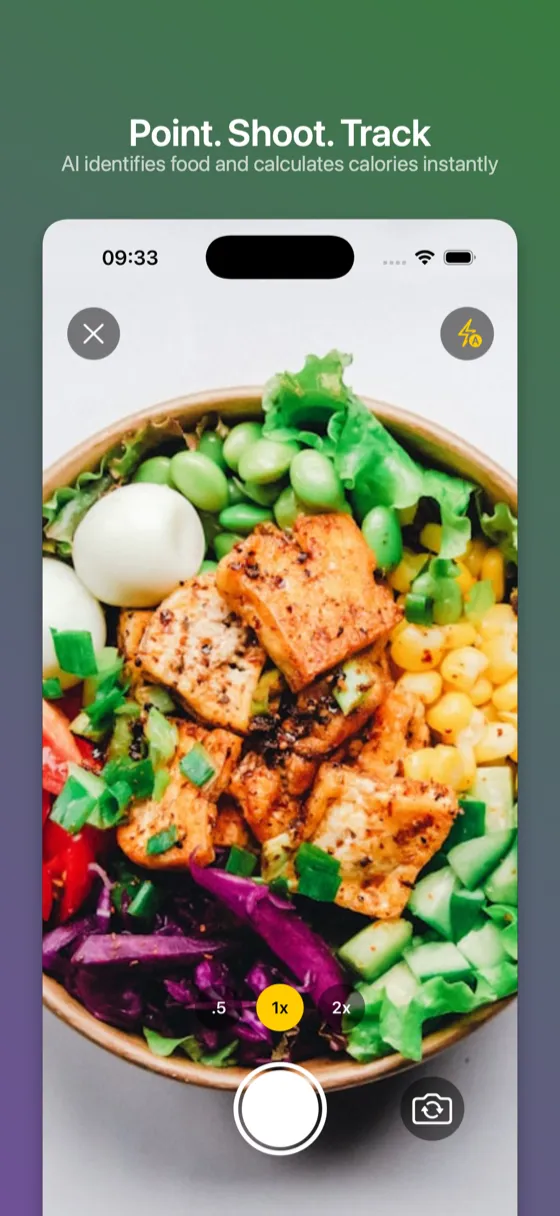
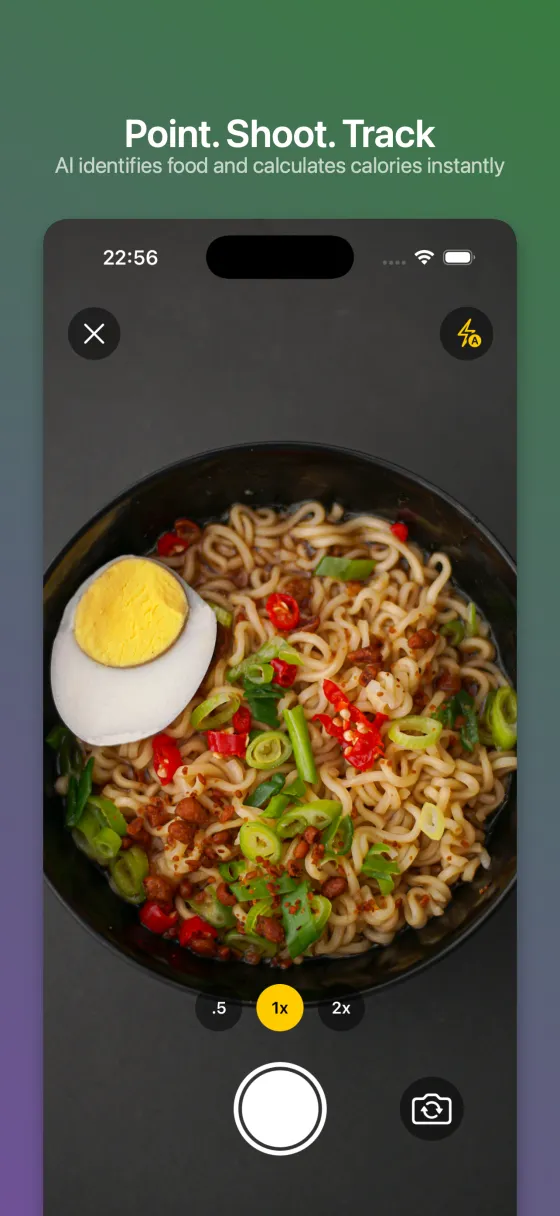
v1.2 metadata refresh: subscription disclosures, GDPR/CCPA, new scan screenshot

diff --git a/index.html b/index.html
@@ -4,8 +4,8 @@
 <head>
     <meta charset="UTF-8">
     <meta name="viewport" content="width=device-width, initial-scale=1.0">
-    <title>SnapNutrition AI - Best Free AI Calorie Tracker App 2026 | No Subscription</title>
-    <meta name="description" content="Best free AI calorie tracker 2026. Snap a photo to count calories instantly. No subscription, no ads. Track macros with photo, barcode, voice & text input.">
+    <title>SnapNutrition AI - Best Free AI Calorie Tracker App 2026 | Bring Your Own Key</title>
+    <meta name="description" content="Best free AI calorie tracker 2026. Snap a photo to count calories instantly. Free forever with your own API key (BYOK), or use optional Auto Mode subscription. No ads. Track macros with photo, barcode, voice & text input.">
     <meta name="keywords" content="free calorie tracker 2026, best calorie app 2026, AI calorie counter, food scanner app, photo calorie counter, macro tracker, best free calorie app, nutrition tracker, barcode food scanner, voice calorie tracking, calorie tracker app 2026, apple watch calorie tracker, calorie widget, lock screen calorie widget, calorie counter apple watch">
     <meta name="robots" content="index, follow">
     <link rel="stylesheet" href="styles.css?v=2" media="print" onload="this.media='all'">
@@ -37,7 +37,7 @@
 
     <!-- Open Graph -->
     <meta property="og:title" content="SnapNutrition AI - Best Free AI Calorie Tracker 2026">
-    <meta property="og:description" content="The best free AI calorie tracker in 2026. Snap a photo to count calories instantly. No subscription, no ads, no limits.">
+    <meta property="og:description" content="The best free AI calorie tracker in 2026. Snap a photo to count calories instantly. Free with your own API key, optional Auto Mode subscription, no ads.">
     <meta property="og:type" content="website">
     <meta property="og:url" content="https://snapnutritionai.app/">
     <meta property="og:image" content="https://snapnutritionai.app/images/og-image.png">
@@ -47,7 +47,7 @@
     <!-- Twitter Card -->
     <meta name="twitter:card" content="summary_large_image">
     <meta name="twitter:title" content="SnapNutrition AI - Best Free AI Calorie Tracker 2026">
-    <meta name="twitter:description" content="The best free AI food scanner in 2026. Snap a photo to count calories instantly. No subscription, no ads.">
+    <meta name="twitter:description" content="The best free AI food scanner in 2026. Snap a photo to count calories instantly. Free with your own API key, no ads.">
     <meta name="twitter:image" content="https://snapnutritionai.app/images/og-image.png">
 
     <!-- Apple Smart App Banner (update with real app ID when available) -->
@@ -108,7 +108,7 @@
                 "@type": "MobileApplication",
                 "@id": "https://snapnutritionai.app/#app",
                 "name": "SnapNutrition AI",
-                "description": "Free AI calorie tracker app for iPhone and iPad. Snap a photo to count calories instantly. Track macros, protein, carbs, and fat with no subscription. Uses BYOK (Bring Your Own Key) model with Anthropic Claude or OpenAI GPT.",
+                "description": "Free AI calorie tracker app for iPhone and iPad. Snap a photo to count calories instantly. Track macros, protein, carbs, and fat. Free forever with BYOK (Bring Your Own Key) using Anthropic Claude or OpenAI GPT, or use the optional Auto Mode subscription ($2.99/month or $29.99/year, with a 3-day free trial) to skip setup.",
                 "applicationCategory": "HealthApplication",
                 "applicationSubCategory": "Nutrition Tracking",
                 "operatingSystem": "iOS 17.0+, watchOS 10.0+",
@@ -140,7 +140,7 @@
                     "Multilingual support (8 languages)",
                     "Metric and imperial units",
                     "No account required",
-                    "No backend servers — complete privacy",
+                    "BYOK mode keeps data on-device — no backend touch",
                     "BYOK (Bring Your Own Key) — use your own AI API key",
                     "Supports Anthropic Claude and OpenAI GPT"
                 ],
@@ -180,7 +180,7 @@
                         "name": "Is SnapNutrition AI really free?",
                         "acceptedAnswer": {
                             "@type": "Answer",
-                            "text": "Yes, SnapNutrition AI is 100% free with no subscription fees, no ads, and no hidden costs. You bring your own API key from Anthropic or OpenAI and pay only for the AI calls you make, which typically costs just pennies per scan. For context, tracking 3 meals per day costs roughly $0.03-0.09, making it far cheaper than apps like MyFitnessPal Premium ($19.99/month) or Yazio Pro ($29.99/year)."
+                            "text": "Yes, SnapNutrition AI is free with no mandatory subscription. Bring your own API key from Anthropic or OpenAI and pay only for the AI calls you make (typically pennies per scan — tracking 3 meals per day costs roughly $0.03-0.09). There is also an optional Auto Mode subscription ($2.99/month or $29.99/year) for users who'd rather skip API-key setup, but it is never required."
                         }
                     },
                     {
@@ -196,7 +196,7 @@
                         "name": "What is the best free calorie tracker app in 2026?",
                         "acceptedAnswer": {
                             "@type": "Answer",
-                            "text": "SnapNutrition AI is the best free AI calorie tracker in 2026 because it offers unlimited AI-powered food tracking with no subscription. Unlike MyFitnessPal, Lose It!, and Yazio which charge $5-20 per month for AI features, SnapNutrition AI uses a BYOK (Bring Your Own Key) model where you pay only for actual AI usage — typically just a few cents per day."
+                            "text": "SnapNutrition AI is the best free AI calorie tracker in 2026 because it offers AI-powered food tracking with no mandatory subscription. Unlike MyFitnessPal, Lose It!, and Yazio which charge $5-20 per month for AI features, SnapNutrition AI uses a BYOK (Bring Your Own Key) model where you pay only for actual AI usage — typically just a few cents per day. An optional Auto Mode subscription ($2.99/month or $29.99/year) is also available for users who'd rather skip API-key setup."
                         }
                     },
                     {
@@ -212,7 +212,7 @@
                         "name": "Is my data private with SnapNutrition AI?",
                         "acceptedAnswer": {
                             "@type": "Answer",
-                            "text": "Yes, SnapNutrition AI has no backend servers and requires no account. All your food diary data stays on your device and syncs only through your personal iCloud account. Food images are sent directly to your chosen AI provider (Anthropic or OpenAI) for analysis — SnapNutrition AI never sees, stores, or processes your data."
+                            "text": "Yes. SnapNutrition AI requires no account, and your meal data stays on your device (with optional iCloud sync). In BYOK mode, food images go directly from your device to Anthropic or OpenAI — we operate no backend and never see your data. In the optional Auto Mode subscription, requests pass through a minimal Cloudflare-hosted proxy that verifies your subscription and forwards the photo to OpenAI; we never store food photos. See our Privacy Policy for full details."
                         }
                     },
                     {
@@ -236,7 +236,7 @@
                         "name": "How does SnapNutrition AI compare to MyFitnessPal?",
                         "acceptedAnswer": {
                             "@type": "Answer",
-                            "text": "SnapNutrition AI is free with no subscription, while MyFitnessPal Premium costs $19.99/month ($240/year). SnapNutrition AI offers unlimited AI photo scanning, requires no account, has no ads, and stores no data on external servers. MyFitnessPal has a larger food database (20M+ foods) and exercise tracking, but locks AI features behind a paywall."
+                            "text": "SnapNutrition AI is free with no mandatory subscription (BYOK with your own API key), while MyFitnessPal Premium costs $19.99/month ($240/year). SnapNutrition AI offers AI photo scanning, requires no account, and has no ads. MyFitnessPal has a larger food database (20M+ foods) and exercise tracking, but locks AI features behind a paywall."
                         }
                     },
                     {
@@ -244,7 +244,7 @@
                         "name": "What is BYOK (Bring Your Own Key)?",
                         "acceptedAnswer": {
                             "@type": "Answer",
-                            "text": "BYOK stands for Bring Your Own Key. Instead of charging a subscription, SnapNutrition AI lets you use your own API key from Anthropic or OpenAI. You pay the AI provider directly for usage — typically $0.01-0.03 per food scan. This model makes the app truly free while giving you access to the latest AI models."
+                            "text": "BYOK stands for Bring Your Own Key. Rather than requiring a subscription, SnapNutrition AI lets you use your own API key from Anthropic or OpenAI. You pay the AI provider directly for usage — typically $0.01-0.03 per food scan. This model makes the app free to use while giving you access to the latest AI models. An optional Auto Mode subscription is also available for users who'd rather skip the API-key setup."
                         }
                     },
                     {
@@ -276,7 +276,7 @@
                         "@type": "HowToStep",
                         "position": 1,
                         "name": "Add Your API Key",
-                        "text": "Get a free API key from Anthropic (console.anthropic.com) or OpenAI (platform.openai.com). Paste it into the SnapNutrition AI app settings. No subscription needed — you only pay for what you use.",
+                        "text": "Get a free API key from Anthropic (console.anthropic.com) or OpenAI (platform.openai.com). Paste it into the SnapNutrition AI app settings. No subscription required — you only pay for what you use. (Prefer not to manage an API key? An optional Auto Mode subscription is also available.)",
                         "image": "https://snapnutritionai.app/images/screenshot-1.png"
                     },
                     {
@@ -356,7 +356,7 @@
 
         <h1>SnapNutrition AI — Free AI Calorie Tracker & Food Diary</h1>
         <p class="tagline">Snap a Photo. Count Calories Instantly. 100% Free.</p>
-        <p class="hero-subtitle">No subscription. No ads. No account needed. Track calories, macros, and nutrition with AI.</p>
+        <p class="hero-subtitle">No mandatory subscription. No ads. No account needed. Track calories, macros, and nutrition with AI.</p>
 
         <a href="https://apps.apple.com/us/app/snapnutrition-ai/id6757797704" class="app-store-badge" aria-label="Download SnapNutrition AI on the App Store">
             <img src="images/download-on-the-app-store.svg?v=2" alt="Download SnapNutrition AI - Best Free Calorie Counter on the App Store">
@@ -390,7 +390,7 @@
 
     <!-- Intro Section -->
     <section class="intro">
-        <p>Looking for a <strong>free calorie tracker</strong> that actually works without a subscription? SnapNutrition AI is a <strong>free AI food diary and calorie counter app</strong> for <strong>iPhone, iPad, and Apple Watch</strong>. Snap a photo, scan a barcode, speak, or type — and get instant calorie, protein, carb, and fat estimates powered by AI. Log calories from your wrist with the <strong>Apple Watch app</strong>, or track at a glance with <strong>Home Screen, Lock Screen, and Control Center widgets</strong>. No monthly fees. No ads. No account required. Perfect for <strong>weight loss</strong>, muscle gain, or simply eating healthier in 2026. Unlike apps like MyFitnessPal or Lose It! that charge $5–15/month for AI features, SnapNutrition AI gives you unlimited AI food recognition for just pennies per scan through your own API key. This is the <strong>best free diet app</strong> and <strong>food tracker</strong> for iOS users who value privacy and flexibility.</p>
+        <p>Looking for a <strong>free calorie tracker</strong> that doesn't lock features behind a subscription? SnapNutrition AI is a <strong>free AI food diary and calorie counter app</strong> for <strong>iPhone, iPad, and Apple Watch</strong>. Snap a photo, scan a barcode, speak, or type — and get instant calorie, protein, carb, and fat estimates powered by AI. Log calories from your wrist with the <strong>Apple Watch app</strong>, or track at a glance with <strong>Home Screen, Lock Screen, and Control Center widgets</strong>. No mandatory monthly fee. No ads. No account required. Perfect for <strong>weight loss</strong>, muscle gain, or simply eating healthier in 2026. Unlike apps like MyFitnessPal or Lose It! that charge $5–15/month for AI features, SnapNutrition AI lets you bring your own API key and pay only pennies per scan — or pick the optional <strong>Auto Mode</strong> subscription ($2.99/month or $29.99/year) if you'd rather skip API-key setup. This is the <strong>best free diet app</strong> and <strong>food tracker</strong> for iOS users who value privacy and flexibility.</p>
     </section>
 
     <!-- Screenshots Section -->
@@ -398,7 +398,7 @@
         <h2>See the Best Free Calorie Counter in Action</h2>
         <div class="screenshot-container">
             <img src="images/screenshot-1.webp?v=2" alt="SnapNutrition AI home screen - AI-powered calorie tracking app with scan, photo, barcode, voice, and text input" width="560" height="1213" fetchpriority="high">
-            <img src="images/screenshot-2.webp?v=2" alt="SnapNutrition AI camera view - Point, shoot, track - AI identifies food and calculates calories instantly" width="560" height="1216" loading="lazy">
+            <img src="images/screenshot-2.webp?v=3" alt="SnapNutrition AI camera view - Point, shoot, track - AI identifies food and calculates calories instantly" width="560" height="1216" loading="lazy">
             <img src="images/screenshot-3.webp?v=2" alt="SnapNutrition AI history screen - Your complete food diary with daily calorie totals" width="560" height="1216" loading="lazy">
             <img src="images/screenshot-4.webp?v=2" alt="SnapNutrition AI statistics - Track your progress with daily goals, weekly trends, and macro breakdown" width="560" height="1216" loading="lazy">
             <img src="images/screenshot-5.webp?v=2" alt="SnapNutrition AI meal detail - Fine-tune every meal with adjustable portions for accurate tracking" width="560" height="1216" loading="lazy">
@@ -460,7 +460,7 @@
             <div class="step">
                 <div class="step-number">1</div>
                 <h3>Add Your API Key</h3>
-                <p>Use your own Anthropic or OpenAI API key. No subscription — you only pay for what you use (pennies per scan).</p>
+                <p>Use your own Anthropic or OpenAI API key — pay only for what you use (pennies per scan). No subscription required.</p>
             </div>
             <div class="step">
                 <div class="step-number">2</div>
@@ -481,8 +481,8 @@
         <div class="features-grid">
             <div class="feature-card">
                 <div class="icon">🆓</div>
-                <h3>100% Free — No Subscription</h3>
-                <p>No monthly fees, no premium tiers, no ads. Bring your own API key and pay only for actual AI usage.</p>
+                <h3>Free Forever with BYOK</h3>
+                <p>Bring your own Anthropic or OpenAI API key and pay only for actual usage. No mandatory subscription, no ads. (Auto Mode is an optional convenience plan — never required.)</p>
             </div>
             <div class="feature-card">
                 <div class="icon">☁</div>
@@ -508,7 +508,7 @@
         <div class="faq-list">
             <details class="faq-item">
                 <summary>Is SnapNutrition AI really free?</summary>
-                <p>Yes, SnapNutrition AI is 100% free with no subscription fees, no ads, and no hidden costs. You bring your own API key from Anthropic or OpenAI and pay only for the AI calls you make, which typically costs just pennies per scan.</p>
+                <p>Yes, SnapNutrition AI is free with no mandatory subscription, no ads, and no hidden costs. Bring your own API key from Anthropic or OpenAI and pay only for the AI calls you make (typically pennies per scan). An optional Auto Mode subscription ($2.99/month or $29.99/year, with a 3-day free trial) is available for users who'd rather skip API-key setup, but it is never required.</p>
             </details>
             <details class="faq-item">
                 <summary>How does the AI food scanner work?</summary>
@@ -516,7 +516,7 @@
             </details>
             <details class="faq-item">
                 <summary>What is the best free calorie tracker app in 2026?</summary>
-                <p>SnapNutrition AI is the best free AI calorie tracker in 2026 because it offers unlimited tracking with no subscription. Unlike other apps that charge $5-15 per month, you only pay for actual AI usage through your own API key — typically just a few cents per day.</p>
+                <p>SnapNutrition AI is the best free AI calorie tracker in 2026 because it offers AI-powered tracking with no mandatory subscription. Unlike other apps that charge $5-15 per month, you can bring your own API key and pay only for actual AI usage (a few cents per day). For users who'd rather skip the API-key setup, an optional Auto Mode subscription ($2.99/month or $29.99/year) is also available.</p>
             </details>
             <details class="faq-item">
                 <summary>How accurate is AI calorie counting?</summary>
@@ -524,7 +524,7 @@
             </details>
             <details class="faq-item">
                 <summary>Is my data private?</summary>
-                <p>Yes, SnapNutrition AI has no backend servers. All your data stays on your device and syncs only through your personal iCloud account. Food images are sent directly to your chosen AI provider (Anthropic or OpenAI) for analysis — we never see your data.</p>
+                <p>Yes. Your meal data stays on your device (with optional iCloud sync). In BYOK mode, food images go directly from your device to Anthropic or OpenAI — we operate no backend and never see your data. In the optional Auto Mode subscription, requests pass through a minimal Cloudflare-hosted proxy that verifies your subscription and forwards the photo to OpenAI; we never store food photos. See our <a href="privacy.html">Privacy Policy</a> for full details.</p>
             </details>
             <details class="faq-item">
                 <summary>What API key do I need?</summary>
@@ -536,11 +536,11 @@
             </details>
             <details class="faq-item">
                 <summary>How does SnapNutrition AI compare to MyFitnessPal?</summary>
-                <p>SnapNutrition AI is free with no subscription, while MyFitnessPal Premium costs $19.99/month ($240/year). SnapNutrition AI offers unlimited AI photo scanning, requires no account, has no ads, and stores no data on external servers. MyFitnessPal has a larger food database (20M+ foods) and exercise tracking, but locks AI features behind a paywall.</p>
+                <p>SnapNutrition AI is free with no mandatory subscription (BYOK with your own API key), while MyFitnessPal Premium costs $19.99/month ($240/year). SnapNutrition AI offers AI photo scanning, requires no account, and has no ads. MyFitnessPal has a larger food database (20M+ foods) and exercise tracking, but locks AI features behind a paywall.</p>
             </details>
             <details class="faq-item">
                 <summary>What is BYOK (Bring Your Own Key)?</summary>
-                <p>BYOK stands for Bring Your Own Key. Instead of charging a subscription, SnapNutrition AI lets you use your own API key from Anthropic or OpenAI. You pay the AI provider directly for usage — typically $0.01-0.03 per food scan. This model makes the app truly free while giving you access to the latest AI models.</p>
+                <p>BYOK stands for Bring Your Own Key. Rather than requiring a subscription, SnapNutrition AI lets you use your own API key from Anthropic or OpenAI. You pay the AI provider directly for usage — typically $0.01-0.03 per food scan. This model makes the app free to use while giving you access to the latest AI models. (For users who'd rather skip the API-key setup, an optional Auto Mode subscription is also available.)</p>
             </details>
             <details class="faq-item">
                 <summary>Does SnapNutrition AI work for keto, vegan, or other diets?</summary>
@@ -556,7 +556,10 @@
     <!-- Privacy Highlight -->
     <section class="privacy-highlight">
         <h2>Your Privacy Matters</h2>
-        <p>No account required. No backend servers. No data collection. All your calorie and nutrition data stays on your device and syncs only through your personal iCloud. Food images are sent directly to your chosen AI provider for analysis — we never see or store your information.</p>
+        <p>No account required. Your meal logs, goals, and history stay on your device and sync only through your personal iCloud account.</p>
+        <p><strong>BYOK mode:</strong> Food images and text descriptions go directly from your device to your chosen AI provider (Anthropic or OpenAI) using your own API key. No proxy, no backend touch — we never see or store your data.</p>
+        <p><strong>Auto Mode (optional subscription, $2.99/month or $29.99/year with a 3-day free trial):</strong> Requests pass through a minimal Cloudflare-hosted proxy that verifies your Apple subscription, runs Apple App Attest for device integrity, and enforces a fair-use daily scan limit. Food photos are forwarded to OpenAI for analysis and not stored on our side. We log anonymized per-scan telemetry (timestamp, scan type, daily count) for rate-limit enforcement only — no personal identifiers, no food content.</p>
+        <p>Full details in our <a href="privacy.html">Privacy Policy</a>.</p>
     </section>
 
     </main>

diff --git a/privacy.html b/privacy.html
@@ -4,14 +4,14 @@
     <meta charset="UTF-8">
     <meta name="viewport" content="width=device-width, initial-scale=1.0">
     <title>Privacy Policy - SnapNutrition AI | Free Calorie Tracker</title>
-    <meta name="description" content="Privacy Policy for SnapNutrition AI - the best free AI calorie tracker. No account required, no data collection, all data stays on your device.">
+    <meta name="description" content="Privacy Policy for SnapNutrition AI. BYOK mode operates with no backend; optional Auto Mode subscription uses a minimal Cloudflare proxy with no food-photo storage. No account required.">
     <link rel="stylesheet" href="styles.css">
     <script>document.documentElement.setAttribute('data-theme',localStorage.getItem('snapnutrition_theme')||'system')</script>
     <link rel="canonical" href="https://snapnutritionai.app/privacy.html">
 
     <!-- Open Graph -->
     <meta property="og:title" content="Privacy Policy - SnapNutrition AI">
-    <meta property="og:description" content="Privacy Policy for SnapNutrition AI. No account required, no data collection, all data stays on your device.">
+    <meta property="og:description" content="Privacy Policy for SnapNutrition AI. BYOK mode operates with no backend; optional Auto Mode subscription uses a minimal Cloudflare proxy with no food-photo storage.">
     <meta property="og:type" content="website">
     <meta property="og:url" content="https://snapnutritionai.app/privacy.html">
     <meta property="og:site_name" content="SnapNutrition AI">
@@ -96,71 +96,134 @@
         <a href="index.html" class="back-link">&larr; Back to Home</a>
 
         <h1>Privacy Policy</h1>
-        <p class="last-updated">Last updated: January 24, 2025</p>
+        <p class="last-updated">Last updated: May 14, 2026</p>
 
-        <p>SnapNutrition AI ("we", "our", or "the app") is committed to protecting your privacy. This Privacy Policy explains how your information is collected, used, and disclosed when you use our free AI calorie tracker mobile application.</p>
+        <p>SnapNutrition AI ("we", "our", or "the app") is committed to protecting your privacy. This Privacy Policy explains what information we and our service providers handle when you use our iOS application, the snapnutritionai.app website, and related services.</p>
+
+        <h2>The Two Usage Modes</h2>
+        <p>SnapNutrition AI offers two ways to use the app. Your data flow differs between them, so this policy describes both:</p>
+        <ul>
+            <li><strong>BYOK (Bring Your Own Key)</strong> — the free, default option. You provide your own Anthropic or OpenAI API key, which is stored only on your device. Scan requests go directly from your device to the AI provider; we operate no backend and never see your data.</li>
+            <li><strong>Auto Mode</strong> — an optional auto-renewing subscription ($2.99/month or $29.99/year, billed by Apple, includes a 3-day free trial). Scan requests pass through a minimal Cloudflare-hosted proxy we operate, which verifies your Apple subscription, runs an Apple App Attest device-integrity check, applies a fair-use daily scan limit, and forwards the request to OpenAI. We never store your food photos. We do log a small amount of anonymized telemetry per scan (see "Auto Mode Telemetry" below).</li>
+        </ul>
 
         <h2>Information We Collect</h2>
-        <p>SnapNutrition AI is designed with privacy in mind. We do not require account registration or login.</p>
+        <p>SnapNutrition AI does not require account registration or login.</p>
 
-        <p><strong>Data stored locally on your device:</strong></p>
+        <p><strong>Stored locally on your device only:</strong></p>
         <ul>
             <li>Food scan history and meal logs</li>
-            <li>Daily calorie goals and preferences</li>
-            <li>App settings (language, measurement units)</li>
-            <li>Your AI API keys (stored securely in device keychain)</li>
+            <li>Daily calorie goals and macro targets</li>
+            <li>App settings (language, measurement units, theme)</li>
+            <li>In BYOK mode: your Anthropic / OpenAI API key (stored in the iOS Keychain with hardware-level encryption)</li>
+            <li>In Auto Mode: a randomly generated user identifier ("appAccountToken") used by Apple StoreKit and by our proxy to verify your subscription</li>
         </ul>
 
-        <h2>Data Processing</h2>
-        <p>When you scan food using the app, the following occurs:</p>
+        <p><strong>Stored in your personal iCloud (only if you enable iCloud sync):</strong> the same scan history, goals, and settings, synced across your Apple devices via Apple's CloudKit. This sync is operated by Apple, not by us, and is subject to <a href="https://www.apple.com/legal/privacy/" target="_blank" rel="noopener">Apple's Privacy Policy</a>.</p>
+
+        <h2>BYOK Mode — Data Processing</h2>
+        <p>When you scan food in BYOK mode:</p>
         <ul>
-            <li>Images or text descriptions of food are sent directly to third-party AI service providers (Anthropic or OpenAI, depending on your configuration) for nutritional analysis</li>
-            <li>This data is transmitted directly from your device to the AI provider using your personal API key</li>
-            <li>We do not have access to this data, as it does not pass through our servers</li>
+            <li>Images or text descriptions of food are sent directly from your device to Anthropic or OpenAI (whichever you configured) for nutritional analysis, using your own API key.</li>
+            <li>The request does not pass through any server operated by us.</li>
+            <li>We have no visibility into the content or metadata of the request.</li>
         </ul>
 
-        <h2>Third-Party Services</h2>
-        <p>The app uses the following third-party services for AI-powered food analysis:</p>
+        <h2>Auto Mode — Data Processing</h2>
+        <p>When you scan food in Auto Mode, the following occurs:</p>
         <ul>
-            <li><strong>Anthropic (Claude)</strong> - <a href="https://www.anthropic.com/privacy" target="_blank" rel="noopener">Privacy Policy</a></li>
-            <li><strong>OpenAI</strong> - <a href="https://openai.com/privacy" target="_blank" rel="noopener">Privacy Policy</a></li>
+            <li>Your device sends the scan request to our Cloudflare Workers proxy at <code>api.snapnutritionai.app</code>.</li>
+            <li>The proxy verifies your active Apple subscription using a cryptographically signed receipt (JWS) issued by Apple StoreKit. We do not store the receipt content beyond the request lifetime.</li>
+            <li>The proxy verifies your device's authenticity using Apple App Attest. To enable this, your device's App Attest public key (one per install) is stored in our Cloudflare KV store. We never receive your device's private key.</li>
+            <li>The proxy applies a daily fair-use scan limit using a per-user counter (stored in a Cloudflare Durable Object, reset every 24 hours UTC).</li>
+            <li>The proxy forwards your food photo or text description to OpenAI's GPT-4 vision model for analysis. The photo passes through the proxy in memory; we do not write food photos to disk or persist them in any store.</li>
+            <li>The proxy returns OpenAI's response to your device.</li>
         </ul>
-        <p>Your use of these services is subject to their respective privacy policies. We encourage you to review them.</p>
 
-        <h2>iCloud Sync</h2>
-        <p>If you have iCloud enabled, your app data (food logs, goals, and settings) may be synced across your Apple devices using your personal iCloud account. This sync is handled entirely by Apple's iCloud service and is subject to <a href="https://www.apple.com/legal/privacy/" target="_blank" rel="noopener">Apple's Privacy Policy</a>.</p>
+        <h2>Auto Mode — Telemetry</h2>
+        <p>For each Auto Mode scan request, we log one anonymized data point to Cloudflare Workers Analytics Engine (a time-series telemetry service) for rate-limit enforcement and operational health monitoring:</p>
+        <ul>
+            <li>The pseudonymous user identifier ("appAccountToken" — a UUID generated on your device, not linked to any personal information)</li>
+            <li>The scan type (photo, voice, text, or barcode)</li>
+            <li>The lifecycle state (trial / paid)</li>
+            <li>The current daily scan count and the request latency</li>
+        </ul>
+        <p>This telemetry does not contain food content, food photos, request bodies, API responses, or any data you provided. It is automatically purged from Cloudflare after 90 days. It is used solely to operate the rate-limit cap and to detect abuse patterns (e.g. unusual scan rates from a single account).</p>
+
+        <h2>Subscription Billing</h2>
+        <p>If you subscribe to Auto Mode, all payment processing is handled by Apple via the App Store. Apple charges your Apple ID, deducts its standard commission, and pays us net revenue. We never receive your credit-card number, billing address, or other Apple ID account details. Apple's handling of this data is governed by the <a href="https://www.apple.com/legal/privacy/" target="_blank" rel="noopener">Apple Privacy Policy</a>.</p>
+        <p>To manage or cancel an Auto Mode subscription, use the App Store's subscription management (Settings → [your name] → Subscriptions on iOS).</p>
+
+        <h2>Barcode Lookups</h2>
+        <p>When you scan a packaged-food barcode, the barcode number is sent to the <a href="https://world.openfoodfacts.org/" target="_blank" rel="noopener">Open Food Facts</a> public database (operated by a non-profit) to retrieve product nutrition information. Only the barcode digits are transmitted — no other data. Open Food Facts has its own <a href="https://world.openfoodfacts.org/privacy-policy" target="_blank" rel="noopener">privacy policy</a>.</p>
+
+        <h2>Third-Party Service Providers</h2>
+        <p>Depending on the mode you use, the following third parties may process your data on our behalf or directly:</p>
+        <ul>
+            <li><strong>Anthropic (Claude)</strong> — BYOK mode AI provider — <a href="https://www.anthropic.com/privacy" target="_blank" rel="noopener">Privacy Policy</a></li>
+            <li><strong>OpenAI</strong> — BYOK mode AI provider and Auto Mode AI provider — <a href="https://openai.com/privacy" target="_blank" rel="noopener">Privacy Policy</a></li>
+            <li><strong>Cloudflare</strong> — Auto Mode proxy and telemetry (sub-processor we operate; data subject to <a href="https://www.cloudflare.com/privacypolicy/" target="_blank" rel="noopener">Cloudflare's Privacy Policy</a>)</li>
+            <li><strong>Apple</strong> — App Store subscription billing, App Attest device integrity, optional iCloud sync — <a href="https://www.apple.com/legal/privacy/" target="_blank" rel="noopener">Privacy Policy</a></li>
+            <li><strong>Open Food Facts</strong> — barcode → nutrition lookup — <a href="https://world.openfoodfacts.org/privacy-policy" target="_blank" rel="noopener">Privacy Policy</a></li>
+            <li><strong>Google Analytics</strong> — website analytics on this site only (not in the app); requires your cookie consent and respects "Do Not Track"</li>
+        </ul>
 
         <h2>Data We Do Not Collect</h2>
-        <p>We want to be clear about what we do NOT collect:</p>
         <ul>
-            <li>We do not collect personal identification information</li>
-            <li>We do not require account creation or login</li>
-            <li>We do not have backend servers that store your data</li>
-            <li>We do not collect analytics or usage data</li>
-            <li>We do not share, sell, or transfer your data to third parties (except as described above for AI analysis)</li>
-            <li>We do not use cookies or tracking technologies</li>
+            <li>We never ask for your name, email, phone number, address, or any other identifying information.</li>
+            <li>We do not require account creation or login.</li>
+            <li>We do not store your food photos or analysis results on our servers.</li>
+            <li>In BYOK mode, no app data ever passes through our infrastructure.</li>
+            <li>We do not sell, rent, or trade any data to third parties for advertising or any other purpose.</li>
+            <li>We do not use cookies or tracking technologies in the iOS app.</li>
         </ul>
 
-        <h2>Data Security</h2>
-        <p>Your data is stored locally on your device using iOS standard secure storage mechanisms. API keys are stored in the iOS Keychain, which provides hardware-level encryption. All communications with AI service providers are encrypted using HTTPS/TLS.</p>
-
-        <h2>Data Retention</h2>
-        <p>All data is stored locally on your device and/or in your personal iCloud account. You can delete your data at any time by:</p>
+        <h2>Data Retention and Your Control</h2>
+        <p>All meal data is stored locally on your device and/or in your personal iCloud account, and you can delete it at any time by:</p>
         <ul>
             <li>Deleting individual food entries within the app</li>
             <li>Clearing all app data through iOS Settings</li>
             <li>Uninstalling the app</li>
         </ul>
+        <p>For Auto Mode infrastructure data: the App Attest public key and per-user rate-limit counter persist as long as your subscription is active and are automatically purged within 90 days after cancellation. Analytics Engine telemetry is automatically purged 90 days after creation.</p>
+
+        <h2>European Users (GDPR)</h2>
+        <p>If you are in the European Economic Area, United Kingdom, or Switzerland, you have the following rights under the General Data Protection Regulation regarding personal data we process about you (limited to Auto Mode infrastructure data; BYOK mode involves no processing by us):</p>
+        <ul>
+            <li><strong>Right of access</strong> — request a copy of the data we hold</li>
+            <li><strong>Right to rectification</strong> — request correction of inaccurate data</li>
+            <li><strong>Right to erasure</strong> — request deletion of your data (effectively achieved by cancelling Auto Mode; complete purge follows within 90 days)</li>
+            <li><strong>Right to restrict or object to processing</strong></li>
+            <li><strong>Right to data portability</strong></li>
+            <li><strong>Right to lodge a complaint</strong> with your national data-protection authority</li>
+        </ul>
+        <p>The legal basis for our Auto Mode processing is the performance of a contract (Apple StoreKit subscription) under GDPR Article 6(1)(b). To exercise any right above, email <a href="mailto:privacy@snapnutritionai.app">privacy@snapnutritionai.app</a> with your appAccountToken (visible in the app's Settings) — we'll respond within 30 days.</p>
+
+        <h2>California Users (CCPA / CPRA)</h2>
+        <p>If you are a California resident, you have the following rights under the California Consumer Privacy Act and California Privacy Rights Act regarding personal information we process:</p>
+        <ul>
+            <li>Right to know what categories of personal information we collect and how we use them</li>
+            <li>Right to delete personal information we hold (subject to legal exceptions)</li>
+            <li>Right to correct inaccurate personal information</li>
+            <li>Right to opt out of any "sale" or "sharing" of personal information — we do not sell or share personal information, so this opt-out is effectively always active for our users</li>
+            <li>Right to non-discrimination for exercising these rights</li>
+        </ul>
+        <p>To exercise these rights, email <a href="mailto:privacy@snapnutritionai.app">privacy@snapnutritionai.app</a>.</p>
+
+        <h2>Data Security</h2>
+        <p>API keys are stored in the iOS Keychain with hardware-level encryption. All communications with AI service providers and our proxy are encrypted using HTTPS/TLS. The Cloudflare proxy stores App Attest public keys and rate-limit counters in Cloudflare-hosted, encrypted-at-rest storage. We never have access to your device's App Attest private key, your Apple ID payment details, or your iCloud-synced data.</p>
 
         <h2>Children's Privacy</h2>
-        <p>The app is not directed at children under the age of 13. We do not knowingly collect information from children under 13.</p>
+        <p>The app is not directed at children under the age of 13 in the United States, or under the age of 16 in the European Economic Area. We do not knowingly collect information from children below these ages. If you believe we have inadvertently received such information, please contact us and we will delete it.</p>
 
         <h2>Changes to This Policy</h2>
-        <p>We may update this Privacy Policy from time to time. We will notify you of any changes by posting the new Privacy Policy on this page and updating the "Last updated" date.</p>
+        <p>We may update this Privacy Policy from time to time, particularly as the app evolves. We will post the new Privacy Policy on this page and update the "Last updated" date at the top. Material changes will also be surfaced in the app's "What's New" screen.</p>
 
         <h2>Contact Us</h2>
-        <p>If you have any questions about this Privacy Policy, please contact us at:</p>
+        <p>If you have any questions about this Privacy Policy or wish to exercise any rights described above, please email:</p>
         <p><a href="mailto:privacy@snapnutritionai.app">privacy@snapnutritionai.app</a></p>
+        <p>For product or billing questions, see our general support address:</p>
+        <p><a href="mailto:support@snapnutritionai.app">support@snapnutritionai.app</a></p>
     </div>
 
     <footer>
